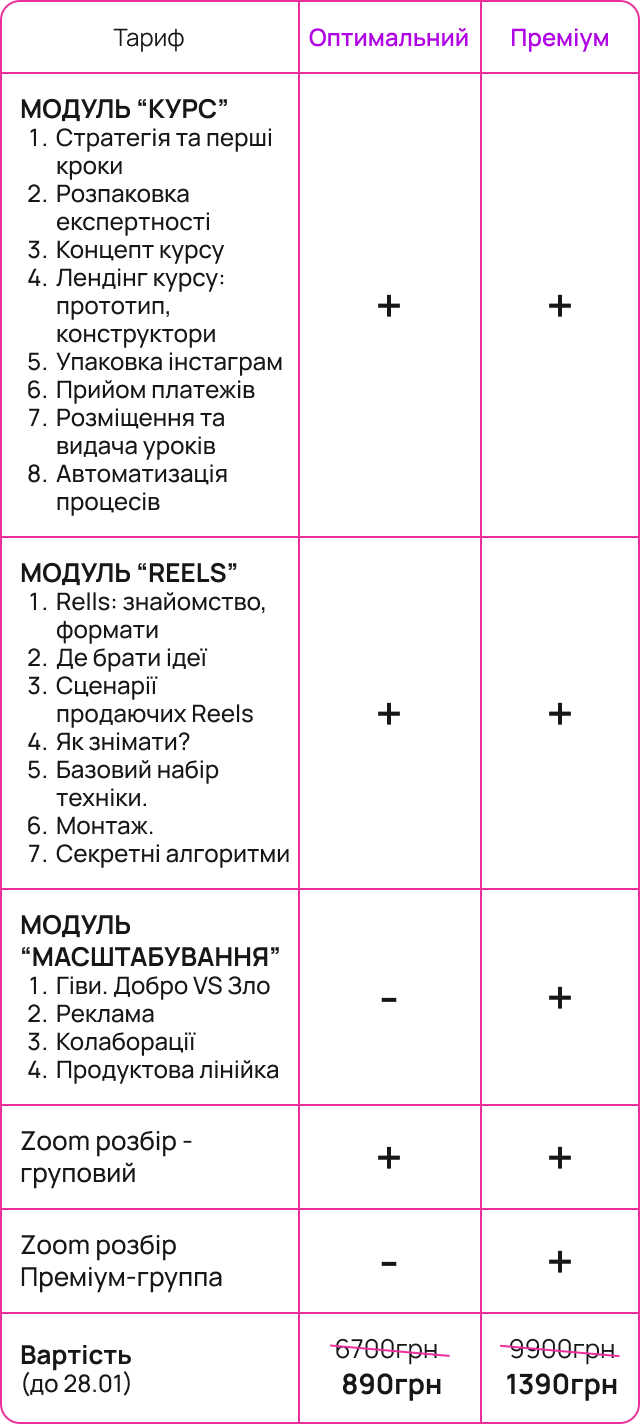
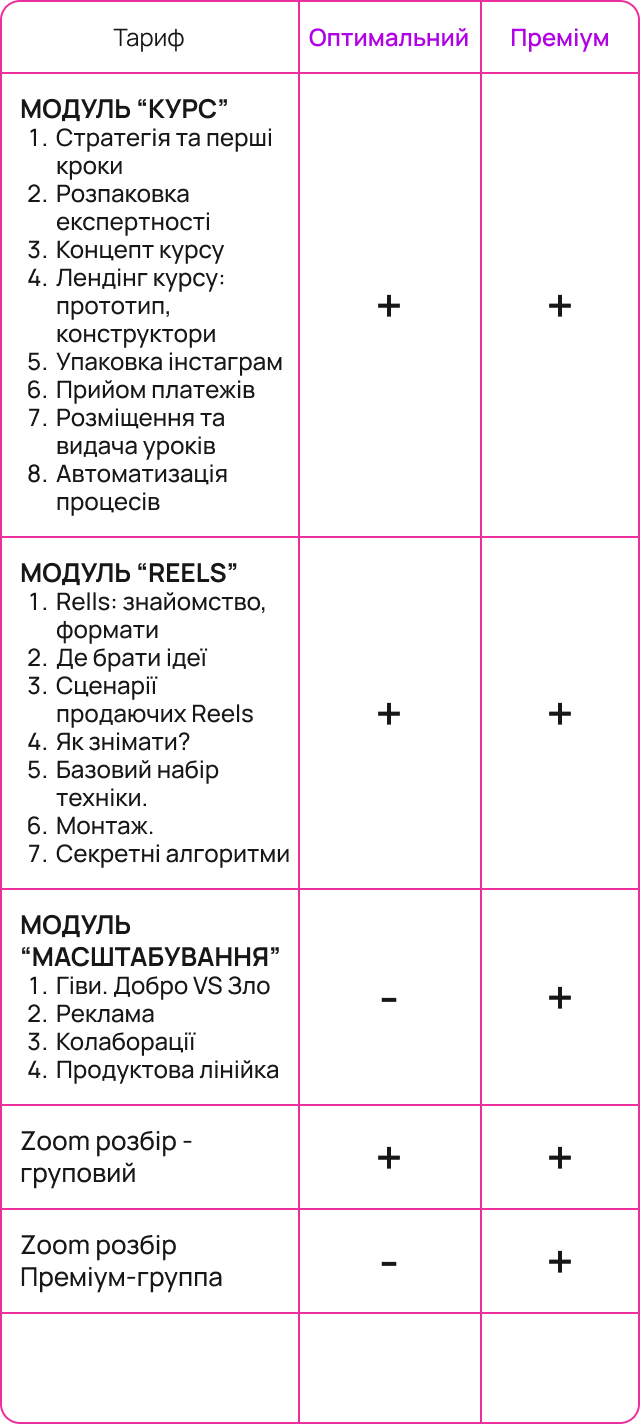
chage price and change timer

Changed region(s): [[0.7812, 0.927, 0.9688, 0.9888], [0.0312, 0.927, 0.2188, 0.9888], [0.5312, 0.927, 0.6875, 0.9888]]

diff --git a/src/js/timer.js b/src/js/timer.js
@@ -2,13 +2,13 @@
 
 function getTimeRemaining(endtime) {
   var t = Date.parse(endtime) - Date.parse(new Date());
-  // var days = Math.floor(t / (1000 * 60 * 60 * 24));
+  var days = Math.floor(t / (1000 * 60 * 60 * 24));
   var seconds = Math.floor((t / 1000) % 60);
   var minutes = Math.floor((t / 1000 / 60) % 60);
   var hours = Math.floor((t / (1000 * 60 * 60)) % 24);
   return {
     total: t,
-    // days: days,
+    days: days,
     hours: hours,
     minutes: minutes,
     seconds: seconds,
@@ -17,14 +17,14 @@ function getTimeRemaining(endtime) {
 
 function initializeClock(id, endtime) {
   var clock = document.getElementById(id);
-  // var daysSpan = clock.querySelector(".days");
+  var daysSpan = clock.querySelector(".days");
   var hoursSpan = clock.querySelector(".hours");
   var minutesSpan = clock.querySelector(".minutes");
   var secondsSpan = clock.querySelector(".seconds");
 
   function updateClock() {
     var t = getTimeRemaining(endtime);
-    // daysSpan.innerHTML = ("0" + t.days).slice(-2);
+    daysSpan.innerHTML = ("0" + t.days).slice(-2);
     hoursSpan.innerHTML = ("0" + t.hours).slice(-2);
     minutesSpan.innerHTML = ("0" + t.minutes).slice(-2);
     secondsSpan.innerHTML = ("0" + t.seconds).slice(-2);
@@ -42,14 +42,14 @@ function initializeClock(id, endtime) {
 
 function initializeClockTwo(id, endtime) {
   var clock = document.getElementById(id);
-  // var daysSpan = clock.querySelector(".days-two");
+  var daysSpan = clock.querySelector(".days-two");
   var hoursSpan = clock.querySelector(".hours-two");
   var minutesSpan = clock.querySelector(".minutes-two");
   var secondsSpan = clock.querySelector(".seconds-two");
 
   function updateClock() {
     var t = getTimeRemaining(endtime);
-    // daysSpan.innerHTML = ("0" + t.days).slice(-2);
+    daysSpan.innerHTML = ("0" + t.days).slice(-2);
     hoursSpan.innerHTML = ("0" + t.hours).slice(-2);
     minutesSpan.innerHTML = ("0" + t.minutes).slice(-2);
     secondsSpan.innerHTML = ("0" + t.seconds).slice(-2);
@@ -67,14 +67,14 @@ function initializeClockTwo(id, endtime) {
 
 function initializeClockThree(id, endtime) {
   var clock = document.getElementById(id);
-  // var daysSpan = clock.querySelector(".days-three");
+  var daysSpan = clock.querySelector(".days-three");
   var hoursSpan = clock.querySelector(".hours-three");
   var minutesSpan = clock.querySelector(".minutes-three");
   var secondsSpan = clock.querySelector(".seconds-three");
 
   function updateClock() {
     var t = getTimeRemaining(endtime);
-    // daysSpan.innerHTML = ("0" + t.days).slice(-2);
+    daysSpan.innerHTML = ("0" + t.days).slice(-2);
     hoursSpan.innerHTML = ("0" + t.hours).slice(-2);
     minutesSpan.innerHTML = ("0" + t.minutes).slice(-2);
     secondsSpan.innerHTML = ("0" + t.seconds).slice(-2);
@@ -90,7 +90,7 @@ function initializeClockThree(id, endtime) {
   var timeinterval = setInterval(updateClock, 1000);
 }
 
-var deadline = "January 28 2025 00:00:00 GMT+0200";
+var deadline = "February 02 2024 00:00:00 GMT+0200";
 initializeClock("countdown", deadline);
 initializeClockTwo("countdown-two", deadline);
 initializeClockThree("countdown-three", deadline);

diff --git a/index.html b/index.html
@@ -57,10 +57,10 @@
             <span>отримайте бонуси</span>
           </p>
           <div id="countdown" class="countdown">
-            <!-- <div class="countdown-number">
+            <div class="countdown-number">
               <span class="days countdown-time"></span>
             </div>
-            <div><span class="countdown-doubledot"></span></div> -->
+            <div><span class="countdown-doubledot"></span></div>
             <div class="countdown-number">
               <span class="hours countdown-time"></span>
             </div>
@@ -512,6 +512,19 @@
                   width="320"
                   height="712"
               /></picture>
+              <!-- <div class="price-container"> -->
+              <div class="price-date">
+                <p>Вартість<br /><span>(до 02.02)</span></p>
+              </div>
+              <div class="price-optimal-container">
+                <p class="old-price">6700грн</p>
+                <p class="new-price">990грн</p>
+              </div>
+              <div class="price-premium-container">
+                <p class="old-price">9900грн</p>
+                <p class="new-price">1490грн</p>
+              </div>
+              <!-- </div> -->
             </div>
             <div class="button-container">
               <button class="optimal-button" data-modal-open-one>
@@ -545,10 +558,10 @@
               <span>отримайте бонуси</span>
             </p>
             <div id="countdown-two" class="countdown-two">
-              <!-- <div class="countdown-number">
+              <div class="countdown-number">
                 <span class="days-two countdown-time"></span>
               </div>
-              <div><span class="countdown-doubledot"></span></div> -->
+              <div><span class="countdown-doubledot"></span></div>
               <div class="countdown-number-two">
                 <span class="hours-two countdown-time-two"></span>
               </div>
@@ -669,10 +682,10 @@
               <span>отримайте бонуси</span>
             </p>
             <div id="countdown-three" class="countdown-three">
-              <!-- <div class="countdown-number">
+              <div class="countdown-number">
                 <span class="days-three countdown-time"></span>
               </div>
-              <div><span class="countdown-doubledot"></span></div> -->
+              <div><span class="countdown-doubledot"></span></div>
               <div class="countdown-number-three">
                 <span class="hours-three countdown-time-three"></span>
               </div>

diff --git a/src/css/styles.css b/src/css/styles.css
@@ -837,6 +837,67 @@ p {
   margin-bottom: 30px;
 }
 
+.table {
+  position: relative;
+}
+
+/* price */
+
+.price-container {
+}
+
+.price-date {
+  position: absolute;
+  bottom: 10px;
+  left: 10px;
+
+  color: #171717;
+  font-family: Manrope;
+  font-size: 13px;
+  font-style: normal;
+  font-weight: 700;
+  line-height: 120%; /* 15.6px */
+}
+
+.price-date span {
+  font-weight: 500;
+}
+
+.price-optimal-container {
+  position: absolute;
+  bottom: 10px;
+  left: 170px;
+}
+
+.old-price {
+  color: #171717;
+  text-align: center;
+  font-family: Manrope;
+  font-size: 13px;
+  font-style: normal;
+  font-weight: 400;
+  line-height: 130%; /* 16.9px */
+
+  text-decoration: line-through;
+  text-decoration-color: #eb309e;
+}
+
+.new-price {
+  color: #171717;
+  text-align: center;
+  font-family: Manrope;
+  font-size: 14px;
+  font-style: normal;
+  font-weight: 700;
+  line-height: 130%;
+}
+
+.price-premium-container {
+  position: absolute;
+  bottom: 10px;
+  left: 253px;
+}
+
 /* BUTTONS-CONTAINER */
 
 .button-container {
